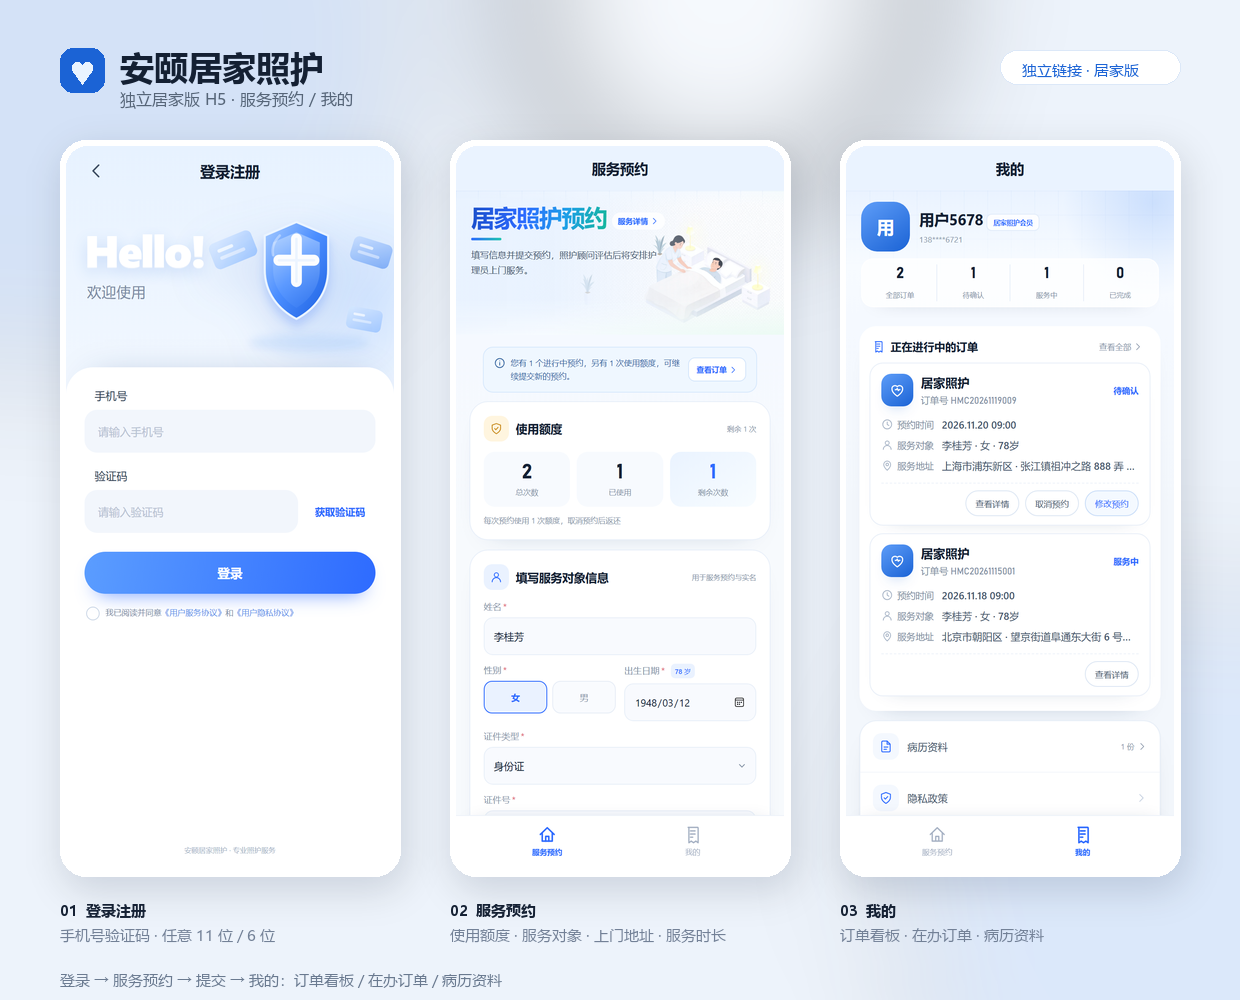
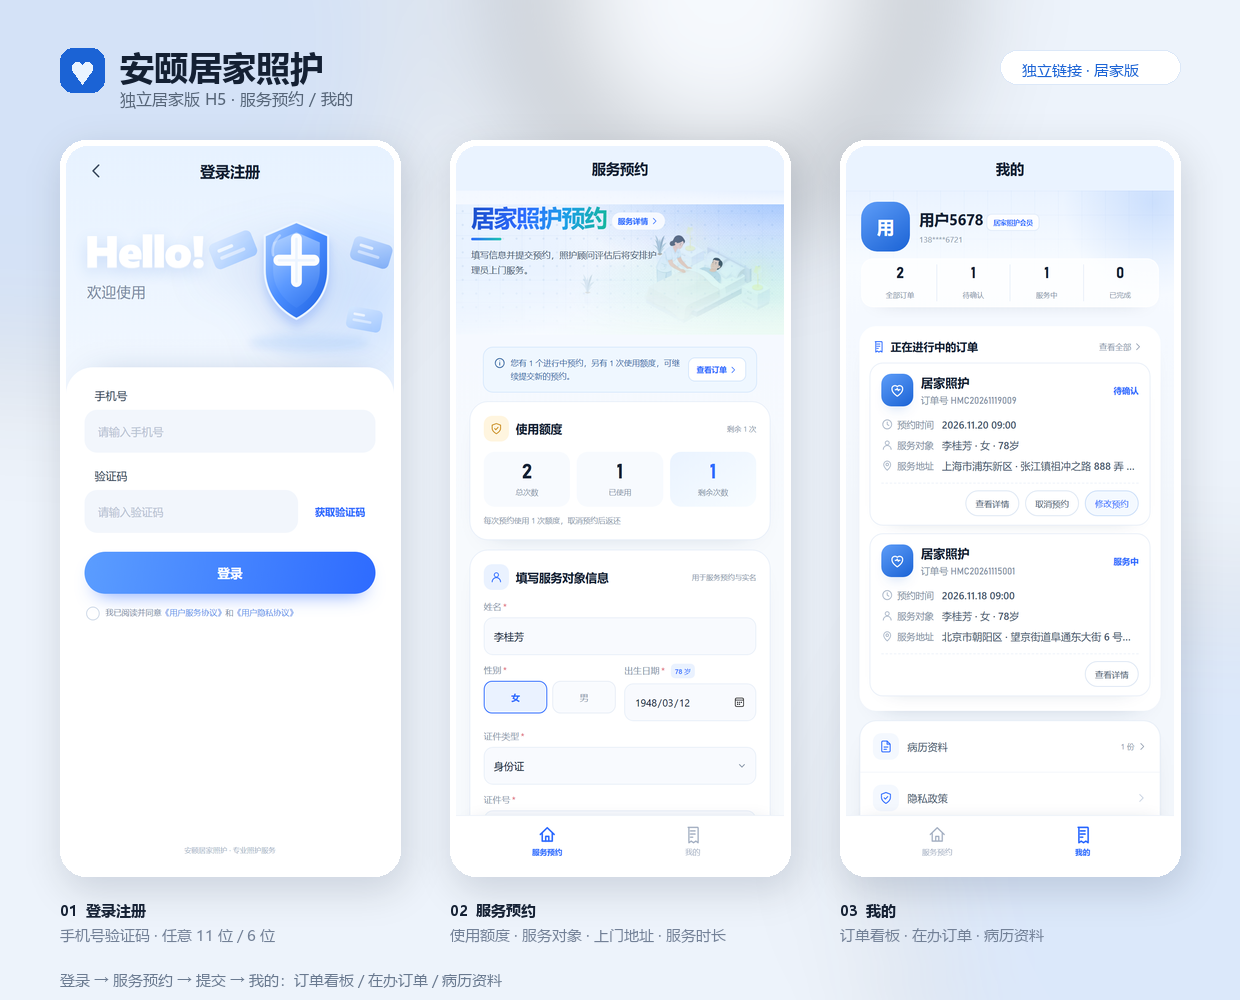
feat: home care H5 initial release

Changed region(s): [[0.4903, 0.186, 0.6435, 0.31]]

diff --git a/styles.css b/styles.css
@@ -1117,3 +1117,29 @@ textarea.field__box { height: auto; min-height: 74px; padding: 10px 11px; line-h
   .login__card { padding: 16px; }
   .login__card > p { margin-bottom: 10px; }
 }
+
+/* richer hero color, pattern and longer bottom fade */
+.book-hero { isolation: isolate; }
+.book-hero__photo { -webkit-mask-image: linear-gradient(to bottom, transparent 0%, #000 10%, #000 58%, transparent 100%); mask-image: linear-gradient(to bottom, transparent 0%, #000 10%, #000 58%, transparent 100%); }
+.book-hero__photo img { opacity: .92; mix-blend-mode: multiply; filter: saturate(.94) contrast(1.02); }
+.book-hero::before {
+  content: "";
+  position: absolute;
+  inset: 0;
+  z-index: 1;
+  pointer-events: none;
+  opacity: 1;
+  background-image:
+    radial-gradient(ellipse at 100% 0%, rgba(70, 143, 255, .55) 0%, rgba(70, 143, 255, 0) 48%),
+    radial-gradient(ellipse at 94% 74%, rgba(66, 207, 188, .42) 0%, rgba(66, 207, 188, 0) 44%),
+    radial-gradient(circle at 87% 9%, transparent 0 34px, rgba(255, 255, 255, .32) 35px 36px, transparent 37px),
+    radial-gradient(circle, rgba(86, 139, 198, .15) 1px, transparent 1.5px),
+    linear-gradient(rgba(36, 108, 210, .035) 1px, transparent 1px),
+    linear-gradient(90deg, rgba(36, 108, 210, .035) 1px, transparent 1px);
+  background-size: auto, auto, auto, 16px 16px, 26px 26px, 26px 26px;
+  -webkit-mask-image: linear-gradient(to bottom, #000 0%, rgba(0, 0, 0, .72) 55%, transparent 100%);
+  mask-image: linear-gradient(to bottom, #000 0%, rgba(0, 0, 0, .72) 55%, transparent 100%);
+}
+.book-hero::after { height: 96px; }
+.book-hero__copy, .req-head__row { position: relative; z-index: 2; }
+
